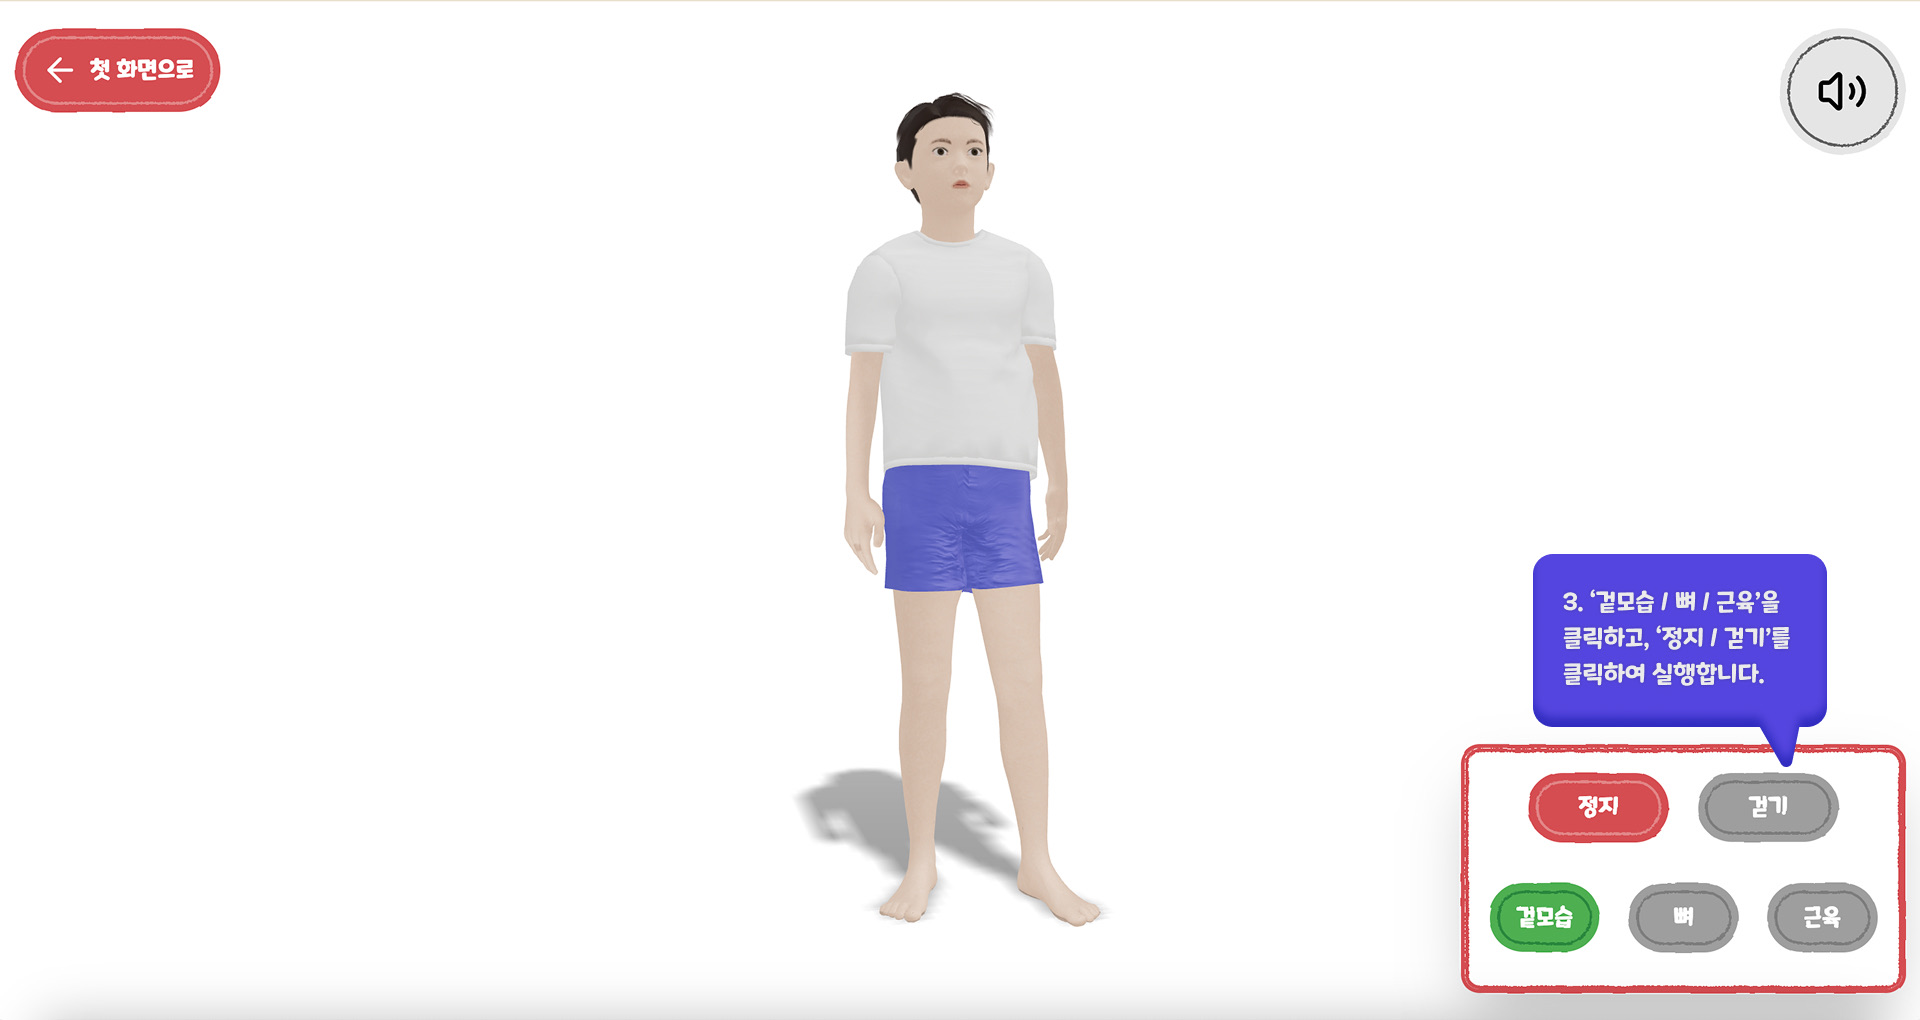
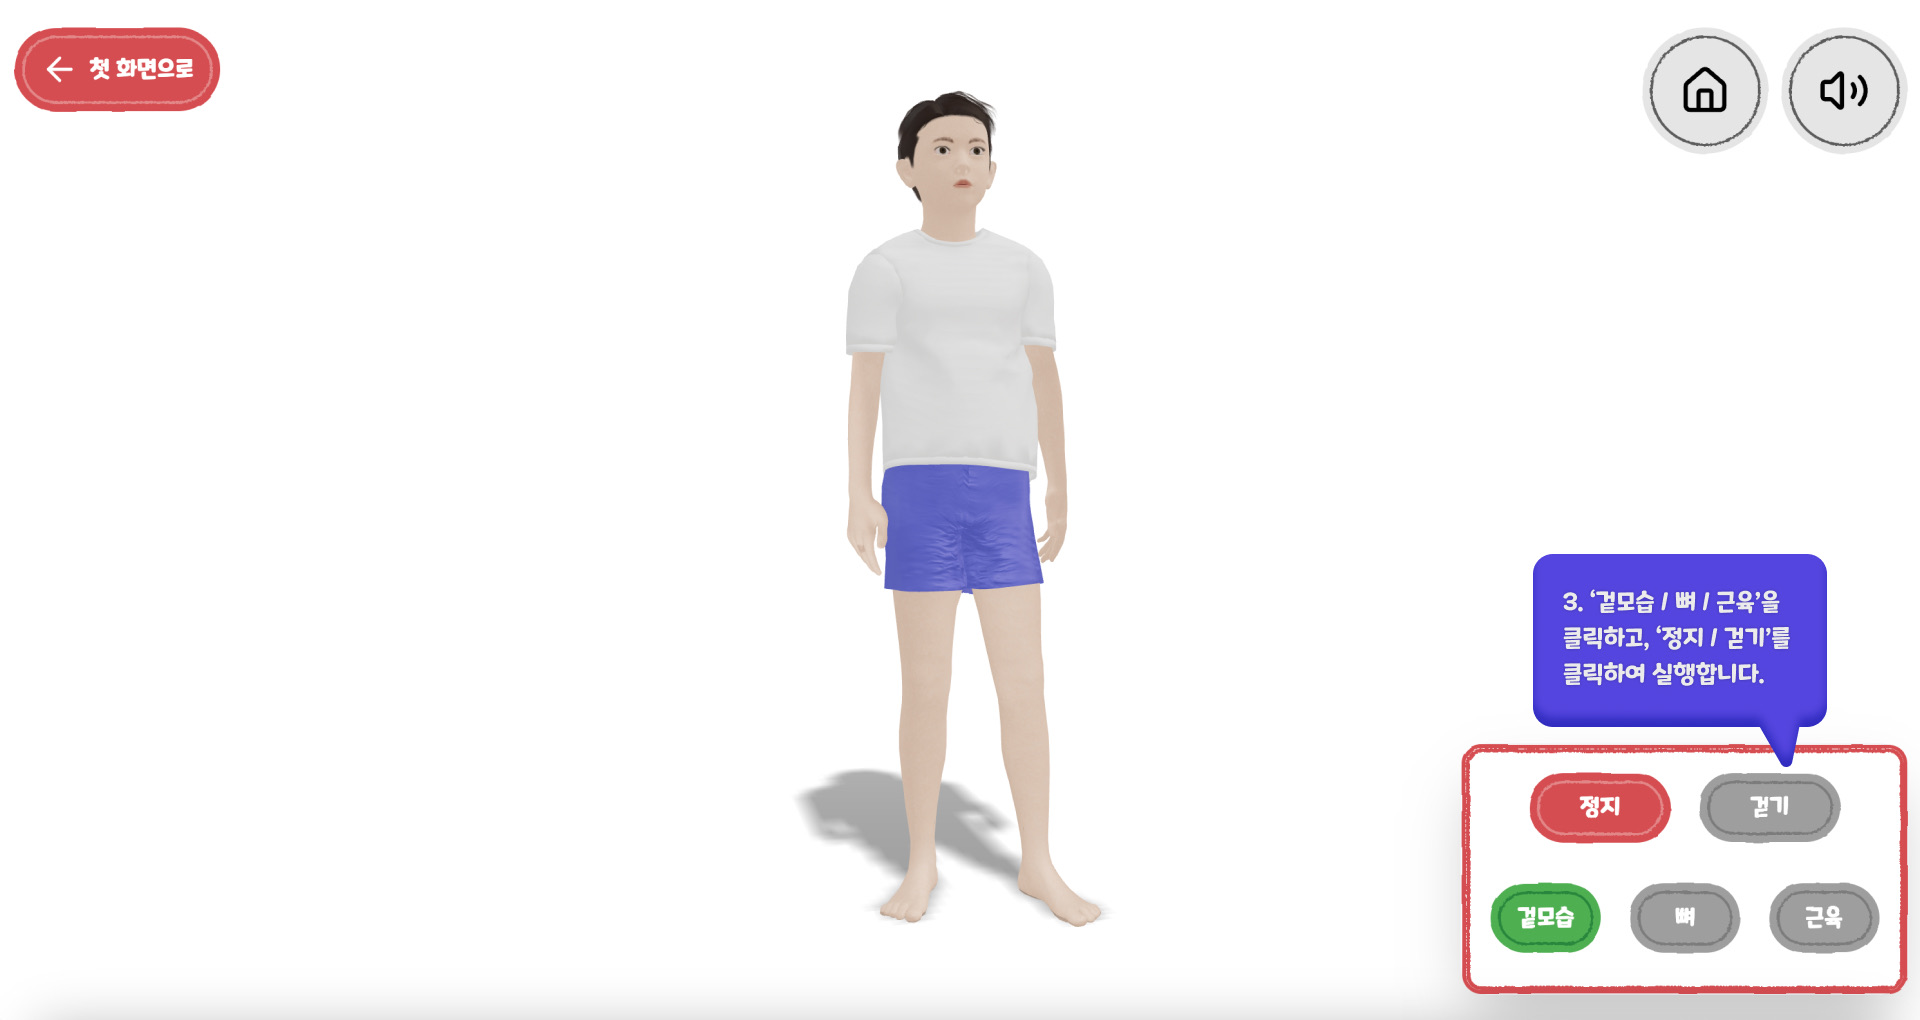
[update] 5-1-4 intro

diff --git a/client/src/pages/5-1-4.tsx b/client/src/pages/5-1-4.tsx
@@ -224,20 +224,17 @@ export default function IntegratedPage() {
   }, [])
 
   // 모드 선택 (인트로 → 실험)
-  const handleModeSelect = useCallback(
-    (selectedMode: PageMode) => {
-      setMode(selectedMode)
-      setShowIntro(false)
-      setBgmReady(true)
+  const handleModeSelect = useCallback((selectedMode: PageMode) => {
+    setMode(selectedMode)
+    setShowIntro(false)
+    setBgmReady(true)
 
-      if (selectedMode === 'bones') loadModels()
-      if (selectedMode === 'arm') {
-        setAction('fold')
-        setHasExtended(false)
-      }
-    },
-    [],
-  )
+    if (selectedMode === 'bones') loadModels()
+    if (selectedMode === 'arm') {
+      setAction('fold')
+      setHasExtended(false)
+    }
+  }, [])
 
   // 뒤로가기 (실험 → 인트로)
   const handleBackToModeSelection = useCallback(() => {
@@ -253,11 +250,27 @@ export default function IntegratedPage() {
 
     resetCamera()
 
-    setTimeout(() => {
-      setMode(null)
-      setShowIntro(true)
-      setIsBackFromMode(true)
-    }, 100)
+    setMode(null)
+    setShowIntro(true)
+    setIsBackFromMode(true)
+  }, [playClickSound, currentNarration, resetCamera])
+
+  const handleBackToIntro = useCallback(() => {
+    playClickSound()
+
+    if (currentNarration) {
+      currentNarration.pause()
+      currentNarration.currentTime = 0
+      setCurrentNarration(null)
+    }
+    setShowNarrationText(false)
+    setNarrationText('')
+
+    resetCamera()
+
+    setMode(null)
+    setShowIntro(true)
+    setIsBackFromMode(false)
   }, [playClickSound, currentNarration, resetCamera])
 
   // 모델 사전 로딩
@@ -272,7 +285,7 @@ export default function IntegratedPage() {
           }),
       )
       await Promise.all(loadPromises)
-      setTimeout(() => setIsModelsLoading(false), 500)
+      setTimeout(() => setIsModelsLoading(false), 100)
     } catch (error) {
       console.error('Model preloading failed:', error)
       setIsModelsLoading(false)
@@ -430,7 +443,14 @@ export default function IntegratedPage() {
       )
     }
     if (mode === 'arm') {
-      return <AnimatedModel2 url='/models/Anatomy/Arm/Flexing.glb' actionName={action} scale={1.5} position={[0, -0.375, 0]} />
+      return (
+        <AnimatedModel2
+          url='/models/Anatomy/Arm/Flexing.glb'
+          actionName={action}
+          scale={1.5}
+          position={[0, -0.375, 0]}
+        />
+      )
     }
     return null
   }, [mode, showIntro, introModelsLoaded, modelUrl, modelType, animState, animIndex, action, isModelsLoading])
@@ -665,7 +685,11 @@ export default function IntegratedPage() {
 
             <Environment
               preset='warehouse'
-              files={mode === 'arm' ? 'https://dl.polyhaven.org/file/ph-assets/HDRIs/hdr/1k/potsdamer_platz_1k.hdr' : undefined}
+              files={
+                mode === 'arm'
+                  ? 'https://dl.polyhaven.org/file/ph-assets/HDRIs/hdr/1k/potsdamer_platz_1k.hdr'
+                  : undefined
+              }
               backgroundIntensity={0.09}
               backgroundBlurriness={0.5}
               environmentIntensity={0.2}
@@ -697,22 +721,40 @@ export default function IntegratedPage() {
 
       {/* BGM 토글 버튼 (mounted 이후) */}
       {mounted && (
-        <CrayonTextButton
-          icon={bgmEnabled ? 'volume2' : 'volumeX'}
-          position='absolute'
-          iconPosition='left'
-          onClick={toggleBgm}
-          width={108}
-          height={108}
-          color='#fff'
-          textcolor='#fff'
-          bg='rgba(255,255,255,0.10)'
-          className='backdrop-blur z-[1000] mix-blend-difference'
-          right={16}
-          top={16}
-          iconSize={40}
-          innerCircleVisible={true}
-        />
+        <>
+          <CrayonTextButton
+            ariaLabel={'첫 화면으로'}
+            icon={'home'}
+            position='absolute'
+            iconPosition='left'
+            onClick={handleBackToIntro}
+            width={108}
+            height={108}
+            color='#ffffff'
+            textcolor='#ffffff'
+            bg='rgba(255,255,255,0.10)'
+            className='background-blur z-[200] right-[108px] mix-blend-difference'
+            right={16}
+            top={16}
+            iconSize={40}
+          />
+          <CrayonTextButton
+            icon={bgmEnabled ? 'volume2' : 'volumeX'}
+            position='absolute'
+            iconPosition='left'
+            onClick={toggleBgm}
+            width={108}
+            height={108}
+            color='#fff'
+            textcolor='#fff'
+            bg='rgba(255,255,255,0.10)'
+            className='backdrop-blur z-[1000] mix-blend-difference'
+            right={16}
+            top={16}
+            iconSize={40}
+            innerCircleVisible={true}
+          />
+        </>
       )}
 
       {/* 모달 (mounted 이후) */}
